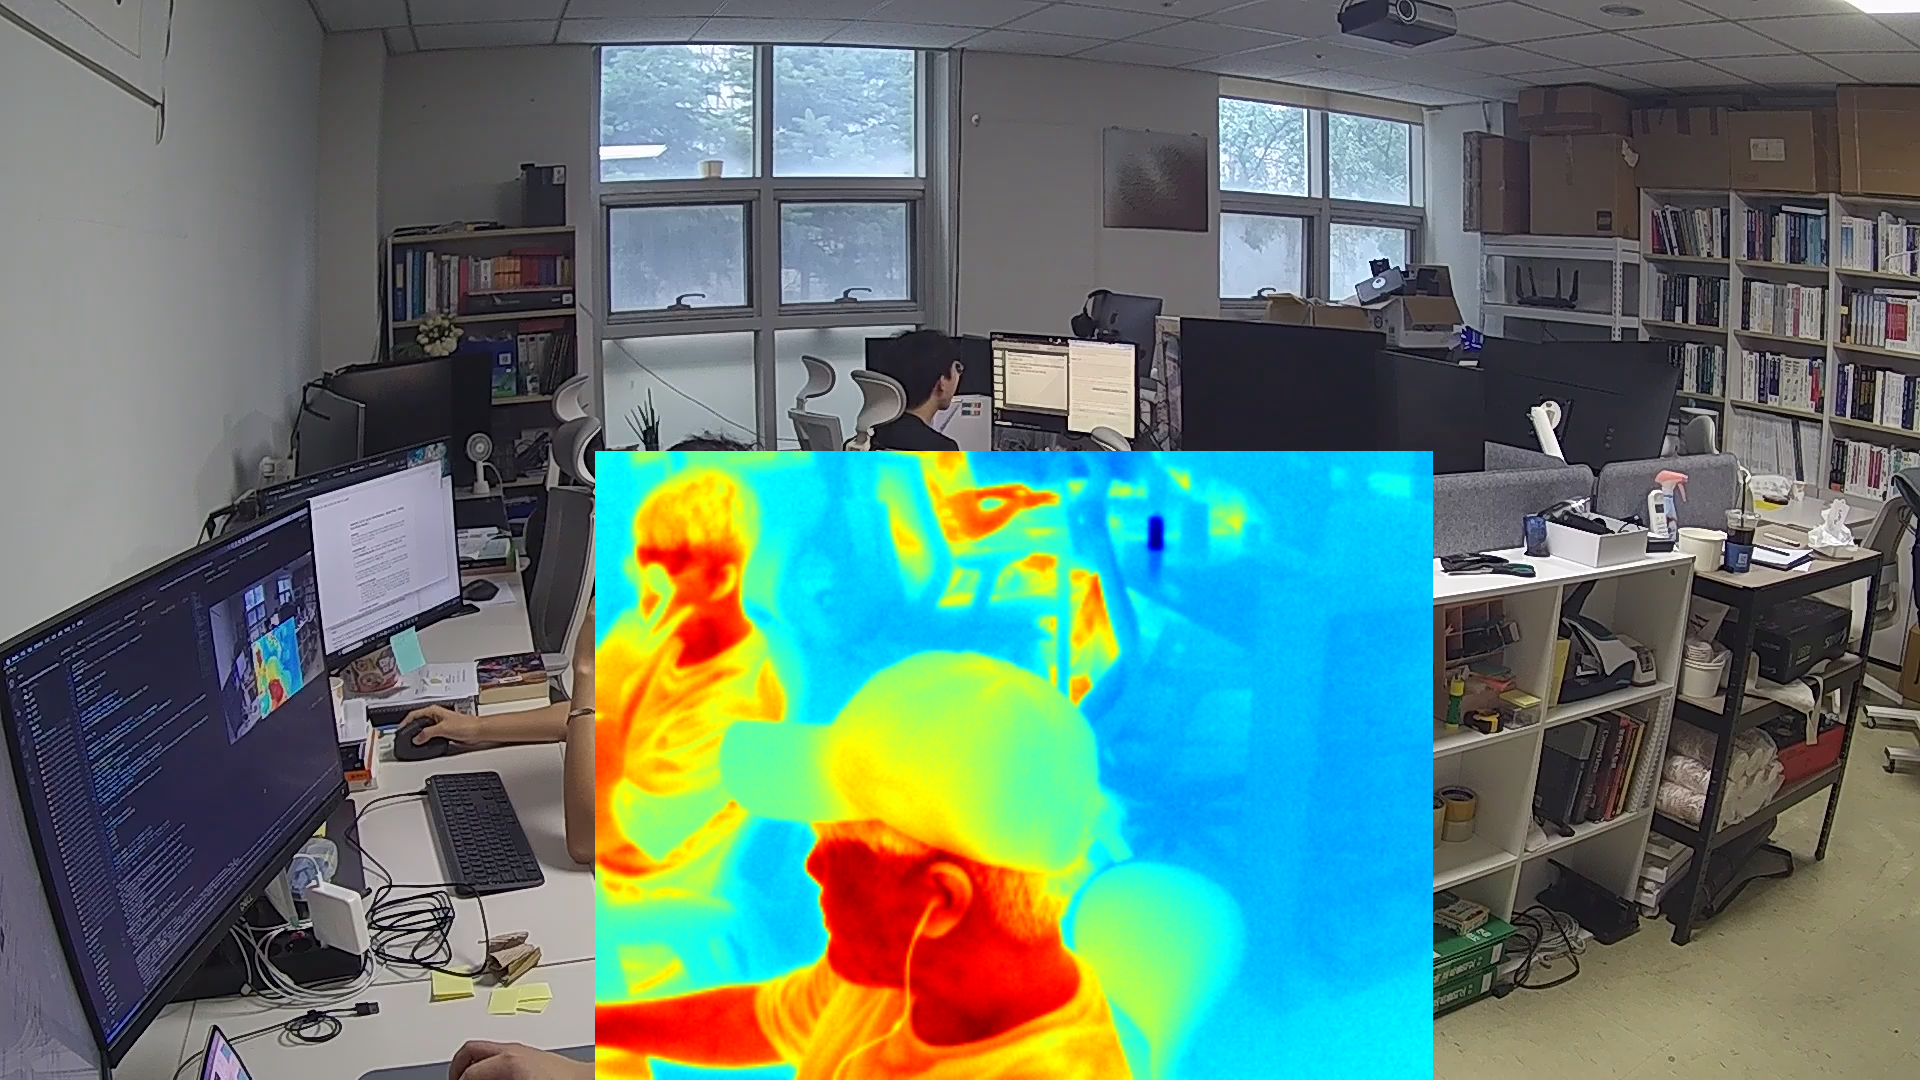
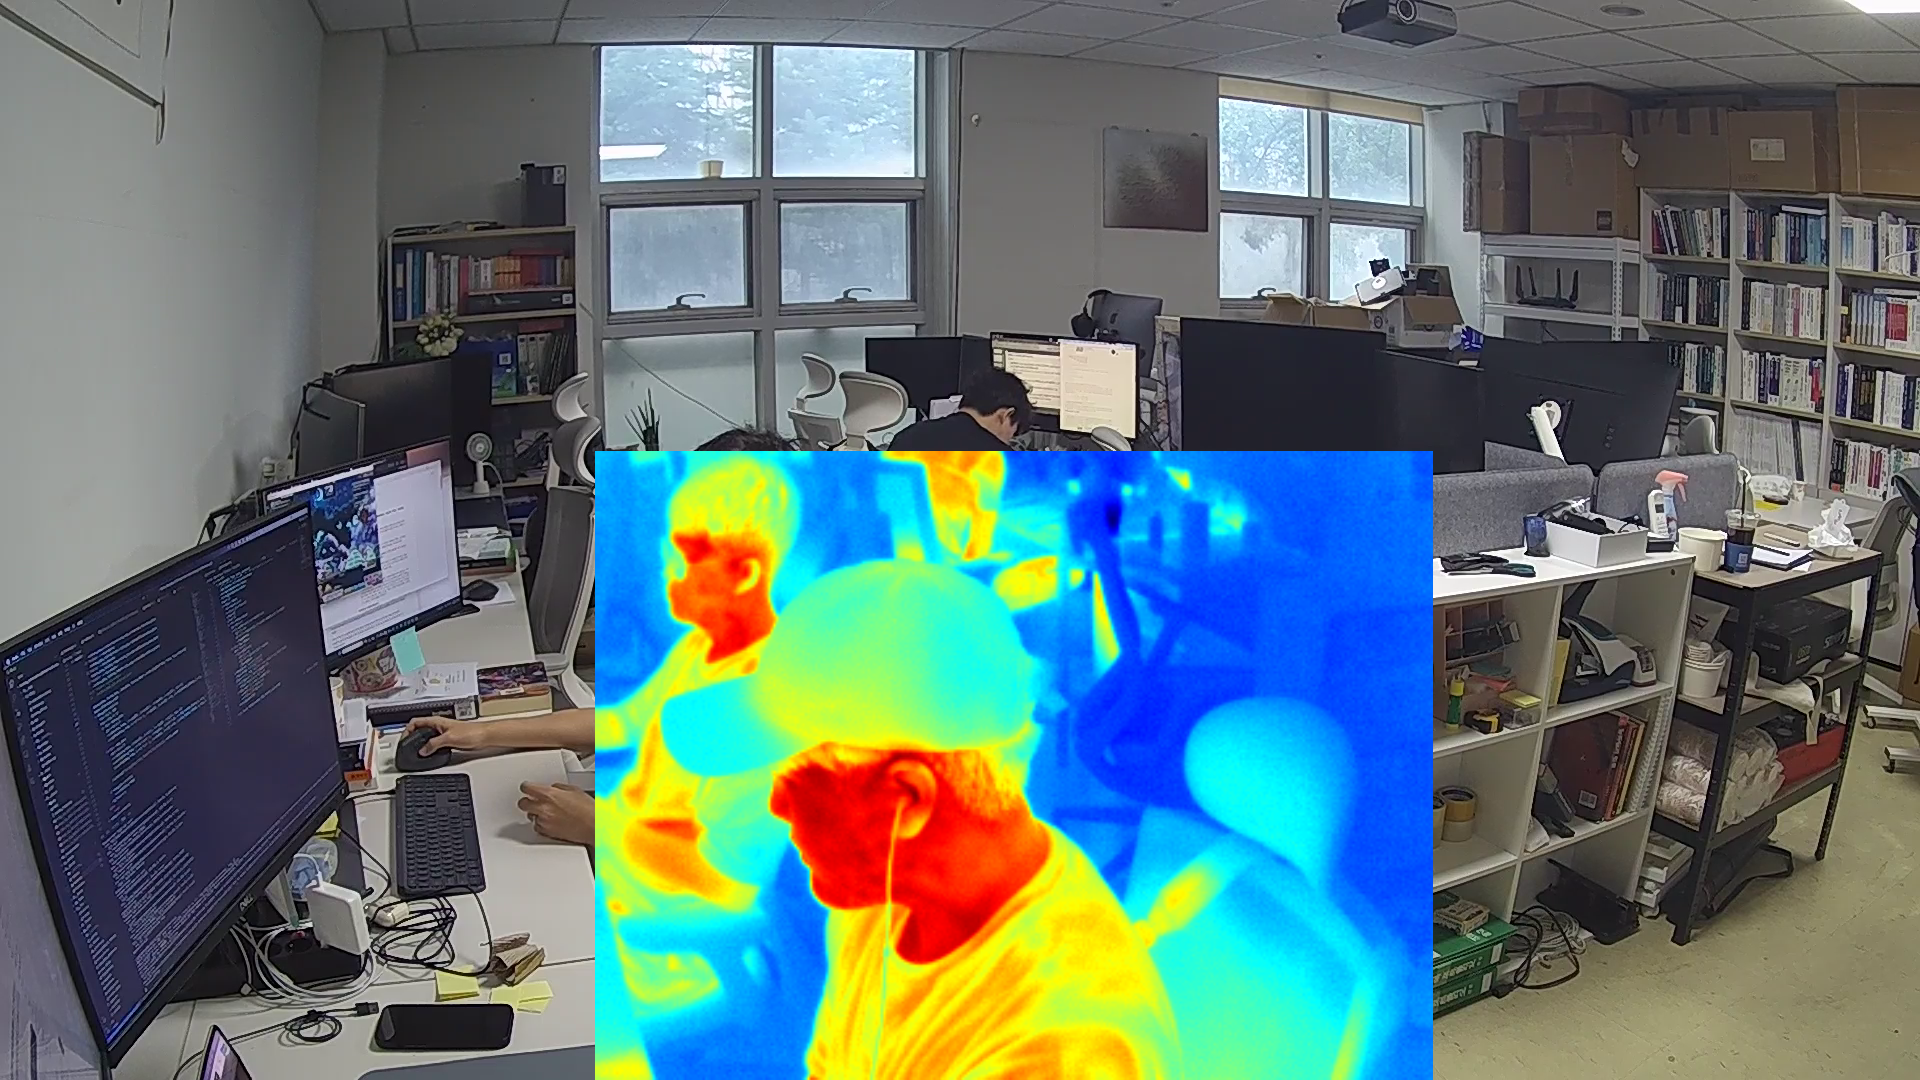
Feat: Combine sensors data

diff --git a/run.py b/run.py
@@ -221,38 +221,8 @@ def main():
             
             detections = np.array(detections, dtype=np.float32)
             skeletons = np.array(skeletons, dtype=np.float32)
-            online_targets = tracker.update(detections, skeletons, frame)
-
+            tracks = tracker.update(detections, skeletons, frame)
             face_detections = face_detector.detect(frame)
-
-            # if num_frame % fps == 0:
-                # face_detections = face_detector.detect(frame)
-                # Sensor(frame, face_detections)
-                # if debug_args.rader:
-                #     temperature = Thermal(thermal_info, frame, face_detections)
-                # if num_frame < len(rader_data):
-                #     cur_rader_data = rader_data[num_frame]
-                #     vital_data = cur_rader_data["vital_info"]
-                #     target_data = []
-                #     for track in online_targets:
-                #         tid = track.track_id
-                #         x1, y1, x2, y2 = track.tlbr
-                #         target_data.append({"id": tid, "range": [x1, x2, y1, y2]})
-
-                #     for vital in vital_data:
-                #         pos, depth = vital["pos"]
-                #         heartbeat_rate = vital["heartbeat_rate"]
-                #         breath_rate = vital["breath_rate"]
-                #         offset = (int(pos) + 200) / 400 * int(w)
-                #         for target in target_data:
-                #             tid = target["id"]
-                #             pos_range = target["range"]
-                #             if offset >= pos_range[0] and offset <= pos_range[1]:
-                #                 logger.info(f"tid:{tid}, heartbeat_rate: {heartbeat_rate}, breath_rate: {breath_rate}")
-                #                 if debug_args.visualize:
-                #                     draw_frame = draw_vital.draw(draw_frame, int(pos_range[0]), int(pos_range[2]), heartbeat_rate, breath_rate)
-                                    
-            tracks = online_targets # 모듈로 전달할 감지 결과
             
             if debug_args.visualize:
                 meta_data = {'cctv_id': cctv_info['cctv_id'], 'current_datetime': current_datetime, 'cctv_name': cctv_info['name'], 'num_frame':num_frame, 'frame_size': (int(w), int(h)), 'frame': draw_frame} # 모듈로 전달할 메타데이터
@@ -273,9 +243,8 @@ def main():
             # if 'longterm' in args.modules:
             #     longterm_input_pipe.send(input_data)
 
-            thermal_data, rader_data, overlay_image = sensor.get_data(frame, face_detections)
-            logger.info(thermal_data)
-            logger.info(rader_data)
+            combine_data, thermal_data, rader_data, overlay_image = sensor.get_data(frame, tracks, face_detections)
+            logger.info(combine_data)
             if debug_args.visualize:
                 red = (0, 0, 255)
                 blue = (255, 0, 0)

diff --git a/_Sensor/sensor.py b/_Sensor/sensor.py
@@ -25,7 +25,59 @@ class Sensor():
     def disconnect_thermal(self):
         self.thermal.disconnect()
 
-    def get_data(self, frame, detections):
+    def get_data(self, frame, tracks, detections):
         thermal_response, overlay_image = self.thermal.recevice(frame, detections)
         rader_response = self.rader.recevice(frame)
-        return thermal_response, rader_response, overlay_image
+        self.logger.debug(thermal_response)
+        self.logger.debug(rader_response)
+        result = []
+        for track in tracks:
+            tid = track.track_id
+            x1, y1, x2, y2 = track.tlbr
+            t_temp = []
+            r_temp = []
+            for td in thermal_response:
+                pos = td['pos']
+                if x1 <= pos[0] <= x2 and y1 <= pos[1] <= y2:
+                    td['id'] = tid
+                    td['score'] = abs((x1 + x2) / 2 - pos[0]) + abs((y1 + y2) / 2 - pos[1])
+                    t_temp.append(td)
+            for rd in rader_response:
+                pos = rd['pos']
+                if x1 <= pos[0] <= x2:
+                    rd['id'] = tid
+                    rd['score'] = abs((x1 + x2) / 2 - pos[0])
+                    r_temp.append(rd)
+            t_temp.sort(key= lambda x: x['score'])
+            r_temp.sort(key= lambda x: x['score'])
+            collect = {'tid': tid, 'temperature': None, 'breath': None, 'heart': None}
+            if len(t_temp) > 0 and tid == t_temp[0]['id']:
+                collect['temperature'] = td['temp']
+            if len(r_temp) > 0 and tid == r_temp[0]['id']:
+                collect['breath'] = rd['breath']
+                collect['heart'] = rd['heart']
+            result.append(collect)
+            
+        return result, thermal_response, rader_response, overlay_image
+    
+    # def _process(self, pipe):
+    #     self.connect_rader()
+    #     pipe.send(True)
+    #     while True:
+    #         data = pipe.recv()
+    #         if data:
+    #             if data == "end_flag":
+    #                 self.disconnect_rader()
+    #                 self.logger.warning("Sensor process end.")
+    #                 break
+    #             frame, detections = data
+    #             thermal_response, overlay_image = self.thermal.recevice(frame, detections)
+    #             rader_response = self.rader.recevice(frame)
+    #             self.result = thermal_response, rader_response, overlay_image
+    #         else:
+    #             time.sleep(0.0001)
+    
+    # def start_process(self):
+    #     self.process = Process(target=self._process, args=(self.output_pipe,))
+    #     self.process.start()
+    

diff --git a/_Sensor/rader.py b/_Sensor/rader.py
@@ -82,8 +82,8 @@ class Rader():
                     if -200 <= pos_x <= 200 and pos_y < 15:
                         conv_pos_x = (pos_x + 200) / 400 * w
                         track_info[track_id] = {"track_id":track_id, "pos_x":conv_pos_x, "pos_y":pos_y}
-                self.logger.info(f"TRACK: {track_info}")
-                self.logger.info(f"VITAL: {self.vital_info}")
+                self.logger.debug(f"TRACK: {track_info}")
+                self.logger.debug(f"VITAL: {self.vital_info}")
                 vital_info = {}
                 for idx in range(0, len(vital_data), 23):
                     if idx + 11 < len(vital_data):
@@ -97,7 +97,7 @@ class Rader():
                 matching_keys = self.manage_keys(track_keys, vital_keys)
                 
                 for key in matching_keys:
-                    self.logger.info(f"Matching Data: {track_info[key]}, {self.vital_info[key]}")
+                    self.logger.debug(f"Matching Data: {track_info[key]}, {self.vital_info[key]}")
                     result.append({'id': key, 'pos': (track_info[key]['pos_x'],track_info[key]['pos_y']), 'breath': self.vital_info[key]['vital_breath'], 'heart': self.vital_info[key]['vital_heart']})
             return result
 

diff --git a/_Sensor/thermal.py b/_Sensor/thermal.py
@@ -95,7 +95,7 @@ class Thermal():
                 thermal_box = thermal_img[thermal_y1:thermal_y2, thermal_x1:thermal_x2]
                 avg_pixel_value = np.mean(thermal_box)
                 skin_surface_temp = (avg_pixel_value - 5500) / 100
-                self.logger.info(f"Detection {i}: Average Pixel Value = {avg_pixel_value}, Skin Surface Temperature = {skin_surface_temp:.2f}°C")
+                self.logger.debug(f"Detection {i}: Average Pixel Value = {avg_pixel_value}, Skin Surface Temperature = {skin_surface_temp:.2f}°C")
                 temperature.append({'id': i, 'pos': (pos_x, pos_y), 'temp': skin_surface_temp})
 
         # return temperature
